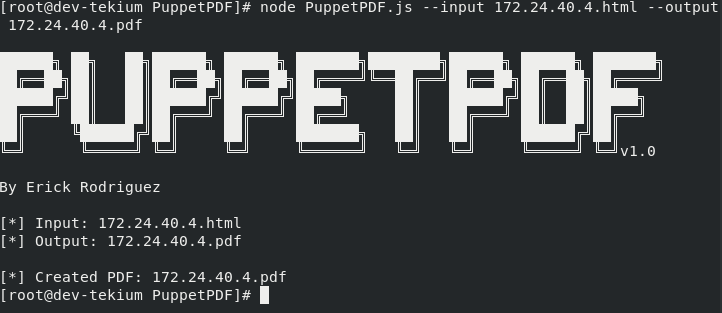
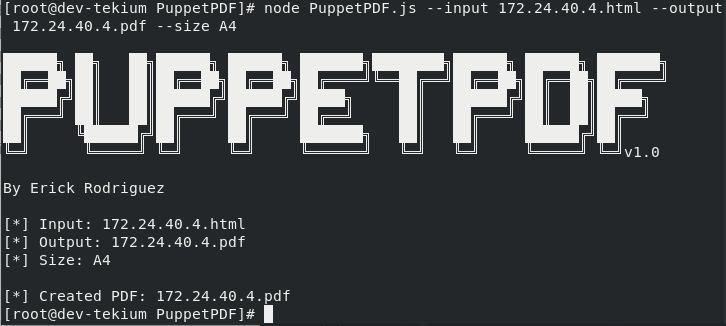
Add additional features

diff --git a/PuppetPDF.js b/PuppetPDF.js
@@ -8,11 +8,44 @@ const fs = require("fs");
 const path = require("path");
 const yargs = require('yargs');
 const puppeteer = require("puppeteer");
+const { exec } = require('child_process');
+const { execSync } = require('child_process');
 
 const argv = yargs
-  .option("input", { alias: 'i', type: "string", demandOption: true })
-  .option("output", { alias: 'o', type: "string", demandOption: true })
-  .argv;
+.option("input", { alias: 'i', describe : "Path to the HTML file", type: "string", demandOption: true })
+.option("output", { alias: 'o', describe : "Path to save the generated PDF", type: "string", demandOption: true })
+.option("size", { alias: 's', describe : "PDF size", choices : ["A4", "Letter", "Legal"], type: "string", demandOption: true })
+.option("open", { describe : "Automatically open the generated PDF", type: "boolean", default : false })
+.argv;
+
+/**
+ * Validates whether a PDF viewer is available on the system.
+ *
+ * @returns {boolean} - Whether or not there is a PDF viewer.
+ * 
+ * @throws {Error} If there is an error when validating whether a PDF viewer is available.
+ */
+function validate_pdf_visor(){
+  const platform = process.platform;
+
+  try{
+    if(platform == "win32"){
+      execSync("where start", { stdio : "ignore" });
+    }
+    else if(platform == "darwin"){
+     execSync("which open", { stdio : "ignore" });
+    }
+    else if(platform == "linux"){
+      execSync("which xdg-open", { stdio : "ignore" });
+    }
+    else{
+      return false;
+    }
+    return true;
+  } catch{
+    return false;
+  }
+}
 
 console.log(`
 ██████╗ ██╗   ██╗██████╗ ██████╗ ███████╗████████╗██████╗ ██████╗ ███████╗
@@ -25,26 +58,71 @@ console.log(`
 console.log("By Erick Rodriguez\n");
 console.log(`[*] Input: ${argv.input}`);
 console.log(`[*] Output: ${argv.output}`);
+console.log(`[*] Size: ${argv.size}`);
 
 (async () => {
-  const browser = await puppeteer.launch({
-    args: ['--no-sandbox', '--disable-setuid-sandbox']
-  });
-  const page = await browser.newPage();
-  const html = fs.readFileSync(argv.input, "utf8");
+  const ext_input = path.extname(argv.input).toLowerCase();
+  const ext_output = path.extname(argv.output).toLowerCase();
 
-  await page.setContent(html, { waitUntil: "networkidle0" });
-  try{
-    await page.pdf({
-      path: argv.output,
-      format: "A4",
-      printBackground: true,
-      margin: {  top: "20mm", bottom: "20mm" }
+  if(!fs.existsSync(argv.input) || (ext_input !== ".html" && ext_input !== ".htm")){
+    console.error("\n[*] File doesn't exist or isn't an HTML document");
+  }
+  else if(ext_output !== ".pdf"){
+    console.error("\n[*] Output file must be a PDF file");
+  }
+  else{
+    const browser = await puppeteer.launch({
+      args: ['--no-sandbox', '--disable-setuid-sandbox']
     });
-    await browser.close();
-    console.log(`\n[*] Created PDF: ${argv.output}`);
-  } catch(err){
-    console.log("\n[*] Error creating PDF");
-    console.log(err.message)
+    const page = await browser.newPage();
+    const html = fs.readFileSync(argv.input, "utf8");
+    await page.setContent(html, { waitUntil: "networkidle0" });
+    try{
+      await page.pdf({
+        path: argv.output,
+        format: argv.size,
+        printBackground: true,
+        margin: {  top: "20mm", bottom: "20mm" }
+      });
+      await browser.close();
+      console.log(`\n[*] Created PDF: ${argv.output}`);
+      if(argv.open){
+        if(validate_pdf_visor()){
+          const platform = process.platform;
+          const pdf_path = path.resolve(argv.output);
+
+          console.log("[*] Opening PDF file: ", pdf_path);
+          if(platform == "win32"){
+            exec(`start "" "${pdf_path}"`, (error) => {
+              if(error){
+                console.error("Error opening PDF: ", error.message);
+              }
+            });
+          }
+          else if(platform == "darwin"){
+            exec(`open "${pdf_path}"`, (error) => {
+              if(error){
+                console.error("Error opening PDF: ", error.message);
+              }
+            });
+          }
+          else if(platform == "linux"){
+            exec(`xdg-open "${pdf_path}"`, (error) => {
+              if(error){
+                console.error("Error opening PDF: ", error.message);
+              }
+            });
+          }
+          else{
+            console.error("[*] Couldn't open automatically: system not recognized");
+          }
+        }
+        else{
+          console.warn("[*] No PDF viewer available on this system was detected.");
+        }
+      }
+    } catch(error){
+      console.error("\n[*] Error creating PDF: ", error.message);
+    }
   }
 })();
